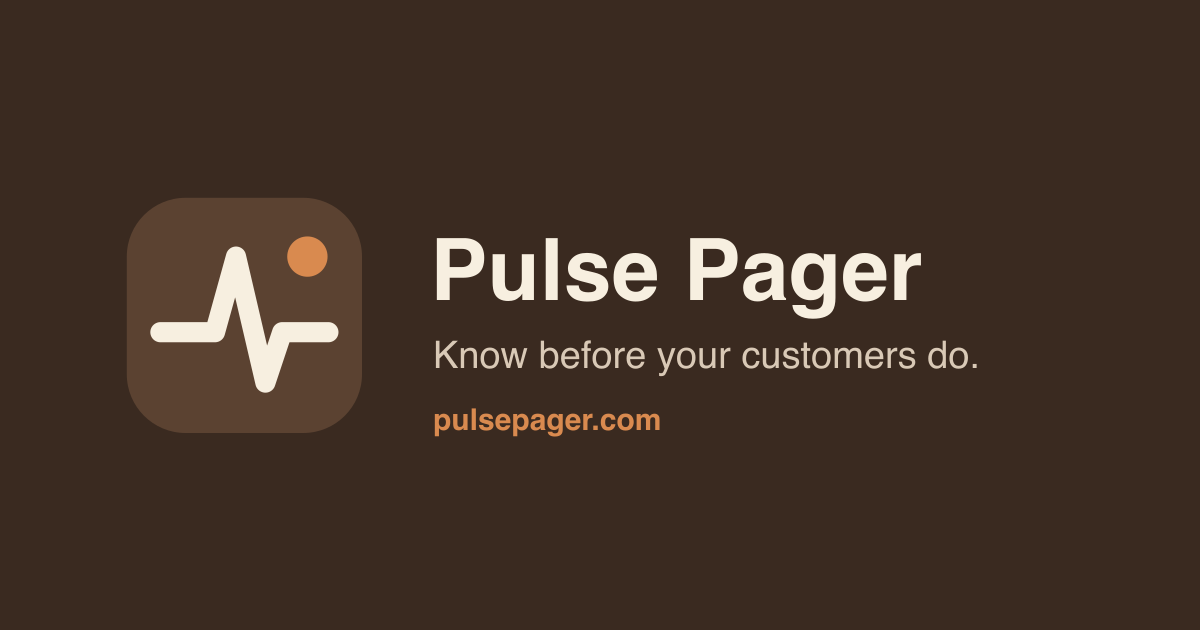
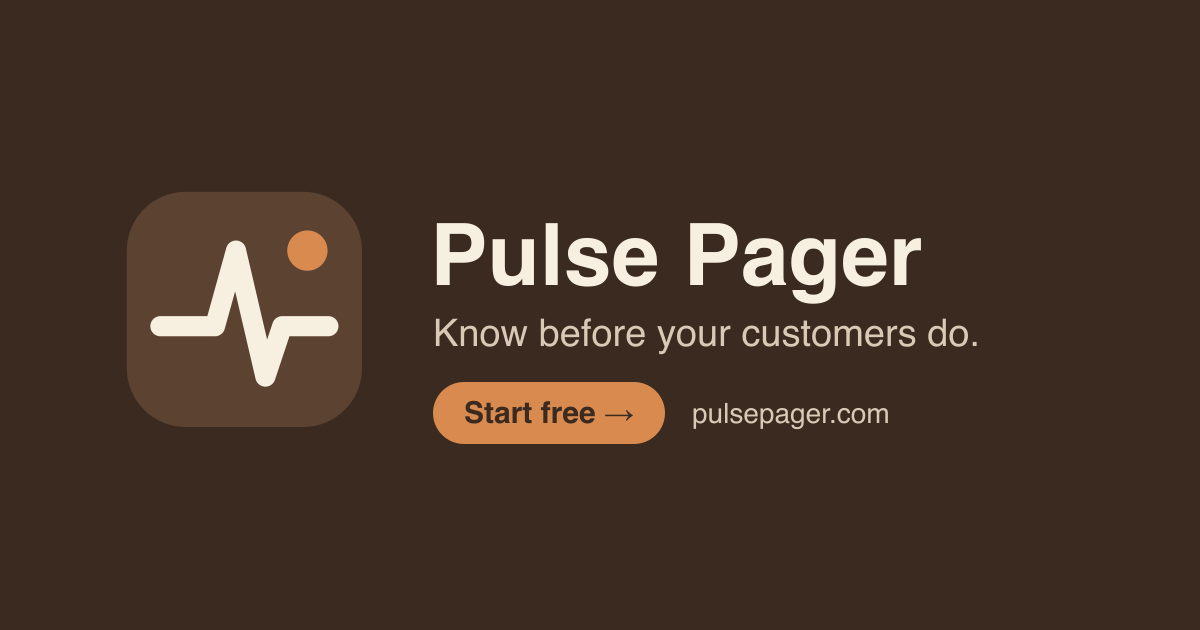
chore: tighten meta descriptions, add OG card CTA, and app meta tags (noindex + social)

diff --git a/web/index.html b/web/index.html
@@ -11,6 +11,23 @@
     -->
     <base href="/" />
     <title>Pulse Pager</title>
+    <meta name="description" content="Sign in to Pulse Pager: developer-first uptime monitoring that watches your endpoints, pages you when they break, and runs status pages." />
+    <!-- The app is a private, authenticated SPA; keep it out of search results. -->
+    <meta name="robots" content="noindex, nofollow" />
+    <!-- Social link preview (still works under noindex). Image is served from the marketing domain. -->
+    <meta property="og:type" content="website" />
+    <meta property="og:site_name" content="Pulse Pager" />
+    <meta property="og:title" content="Pulse Pager" />
+    <meta property="og:description" content="Developer-first uptime monitoring. Watch your endpoints, get paged when they break, and run status pages." />
+    <meta property="og:url" content="https://app.pulsepager.com/" />
+    <meta property="og:image" content="https://pulsepager.com/assets/og.png" />
+    <meta property="og:image:type" content="image/png" />
+    <meta property="og:image:width" content="1200" />
+    <meta property="og:image:height" content="630" />
+    <meta name="twitter:card" content="summary_large_image" />
+    <meta name="twitter:title" content="Pulse Pager" />
+    <meta name="twitter:description" content="Developer-first uptime monitoring. Watch your endpoints, get paged when they break, and run status pages." />
+    <meta name="twitter:image" content="https://pulsepager.com/assets/og.png" />
     <!-- Favicon follows the browser/OS theme so the badge stays visible on a
          dark or light tab bar: dark coffee badge on light, cream badge on dark. -->
     <link rel="icon" type="image/svg+xml" href="logo.svg" media="(prefers-color-scheme: light)" />

diff --git a/docs-site/index.html b/docs-site/index.html
@@ -4,20 +4,24 @@
   <meta charset="utf-8">
   <meta name="viewport" content="width=device-width, initial-scale=1">
   <title>Pulse Pager - open source, developer-first uptime monitoring</title>
-  <meta name="description" content="Pulse Pager is open source, multi-tenant uptime monitoring with an API-first design. Self-host it for free or use our managed cloud. Monitor endpoints, run status pages, and manage everything as code.">
+  <meta name="description" content="Open-source, API-first uptime monitoring. Watch your endpoints, open incidents, alert your team, and run status pages. Self-host free or use our cloud.">
   <link rel="canonical" href="https://pulsepager.com/">
   <meta property="og:type" content="website">
   <meta property="og:site_name" content="Pulse Pager">
   <meta property="og:title" content="Pulse Pager - open source, developer-first uptime monitoring">
-  <meta property="og:description" content="Pulse Pager is open source, multi-tenant uptime monitoring with an API-first design. Self-host it for free or use our managed cloud. Monitor endpoints, run status pages, and manage everything as code.">
+  <meta property="og:description" content="Open-source, API-first uptime monitoring. Watch your endpoints, open incidents, alert your team, and run status pages. Self-host free or use our cloud.">
   <meta property="og:url" content="https://pulsepager.com/">
   <meta property="og:image" content="https://pulsepager.com/assets/og.png">
+  <meta property="og:image:type" content="image/png">
+  <meta property="og:image:width" content="1200">
+  <meta property="og:image:height" content="630">
+  <meta property="og:image:alt" content="Pulse Pager">
   <meta name="twitter:card" content="summary_large_image">
   <meta name="twitter:title" content="Pulse Pager - open source, developer-first uptime monitoring">
-  <meta name="twitter:description" content="Pulse Pager is open source, multi-tenant uptime monitoring with an API-first design. Self-host it for free or use our managed cloud. Monitor endpoints, run status pages, and manage everything as code.">
+  <meta name="twitter:description" content="Open-source, API-first uptime monitoring. Watch your endpoints, open incidents, alert your team, and run status pages. Self-host free or use our cloud.">
   <meta name="twitter:image" content="https://pulsepager.com/assets/og.png">
   <script type="application/ld+json">
-  {"@context":"https://schema.org","@type":"SoftwareApplication","name":"Pulse Pager","applicationCategory":"DeveloperApplication","operatingSystem":"Web","url":"https://pulsepager.com","description":"Pulse Pager is open source, multi-tenant uptime monitoring with an API-first design. Self-host it for free or use our managed cloud. Monitor endpoints, run status pages, and manage everything as code.","offers":{"@type":"Offer","price":"0","priceCurrency":"USD"}}
+  {"@context":"https://schema.org","@type":"SoftwareApplication","name":"Pulse Pager","applicationCategory":"DeveloperApplication","operatingSystem":"Web","url":"https://pulsepager.com","description":"Open-source, API-first uptime monitoring. Watch your endpoints, open incidents, alert your team, and run status pages. Self-host free or use our cloud.","offers":{"@type":"Offer","price":"0","priceCurrency":"USD"}}
   </script>
   <link rel="stylesheet" href="./assets/styles.css">
   <link rel="icon" type="image/svg+xml" href="./assets/logo.svg" media="(prefers-color-scheme: light)">

diff --git a/docs-site/pricing.html b/docs-site/pricing.html
@@ -4,17 +4,21 @@
   <meta charset="utf-8">
   <meta name="viewport" content="width=device-width, initial-scale=1">
   <title>Cloud pricing - Pulse Pager</title>
-  <meta name="description" content="Pulse Pager Cloud plans: Free, Hobby, Professional, and Custom, priced by how often you check (every 15 min down to sub-minute), with monitors, regions, retention, status pages, API access, and SSO. Or self-host the open source version for free.">
+  <meta name="description" content="Pulse Pager Cloud pricing: Free to Custom plans priced by check frequency, with monitors, regions, retention, status pages, API and SSO. Self-host free.">
   <link rel="canonical" href="https://pulsepager.com/pricing.html">
   <meta property="og:type" content="website">
   <meta property="og:site_name" content="Pulse Pager">
   <meta property="og:title" content="Cloud pricing - Pulse Pager">
-  <meta property="og:description" content="Pulse Pager Cloud plans: Free, Hobby, Professional, and Custom, priced by how often you check (every 15 min down to sub-minute), with monitors, regions, retention, status pages, API access, and SSO. Or self-host the open source version for free.">
+  <meta property="og:description" content="Pulse Pager Cloud pricing: Free to Custom plans priced by check frequency, with monitors, regions, retention, status pages, API and SSO. Self-host free.">
   <meta property="og:url" content="https://pulsepager.com/pricing.html">
   <meta property="og:image" content="https://pulsepager.com/assets/og.png">
+  <meta property="og:image:type" content="image/png">
+  <meta property="og:image:width" content="1200">
+  <meta property="og:image:height" content="630">
+  <meta property="og:image:alt" content="Pulse Pager">
   <meta name="twitter:card" content="summary_large_image">
   <meta name="twitter:title" content="Cloud pricing - Pulse Pager">
-  <meta name="twitter:description" content="Pulse Pager Cloud plans: Free, Hobby, Professional, and Custom, priced by how often you check (every 15 min down to sub-minute), with monitors, regions, retention, status pages, API access, and SSO. Or self-host the open source version for free.">
+  <meta name="twitter:description" content="Pulse Pager Cloud pricing: Free to Custom plans priced by check frequency, with monitors, regions, retention, status pages, API and SSO. Self-host free.">
   <meta name="twitter:image" content="https://pulsepager.com/assets/og.png">
   <link rel="stylesheet" href="./assets/styles.css">
   <link rel="icon" type="image/svg+xml" href="./assets/logo.svg" media="(prefers-color-scheme: light)">

diff --git a/docs-site/api.html b/docs-site/api.html
@@ -12,6 +12,10 @@
   <meta property="og:description" content="The Pulse Pager REST API reference, generated from the OpenAPI 3 spec.">
   <meta property="og:url" content="https://pulsepager.com/api.html">
   <meta property="og:image" content="https://pulsepager.com/assets/og.png">
+  <meta property="og:image:type" content="image/png">
+  <meta property="og:image:width" content="1200">
+  <meta property="og:image:height" content="630">
+  <meta property="og:image:alt" content="Pulse Pager">
   <meta name="twitter:card" content="summary_large_image">
   <meta name="twitter:title" content="API reference - Pulse Pager">
   <meta name="twitter:description" content="The Pulse Pager REST API reference, generated from the OpenAPI 3 spec.">

diff --git a/docs-site/guides/authentication.html b/docs-site/guides/authentication.html
@@ -12,6 +12,10 @@
   <meta property="og:description" content="How to authenticate to the Pulse Pager API with a role-scoped API key.">
   <meta property="og:url" content="https://pulsepager.com/guides/authentication.html">
   <meta property="og:image" content="https://pulsepager.com/assets/og.png">
+  <meta property="og:image:type" content="image/png">
+  <meta property="og:image:width" content="1200">
+  <meta property="og:image:height" content="630">
+  <meta property="og:image:alt" content="Pulse Pager">
   <meta name="twitter:card" content="summary_large_image">
   <meta name="twitter:title" content="Authentication - Pulse Pager">
   <meta name="twitter:description" content="How to authenticate to the Pulse Pager API with a role-scoped API key.">